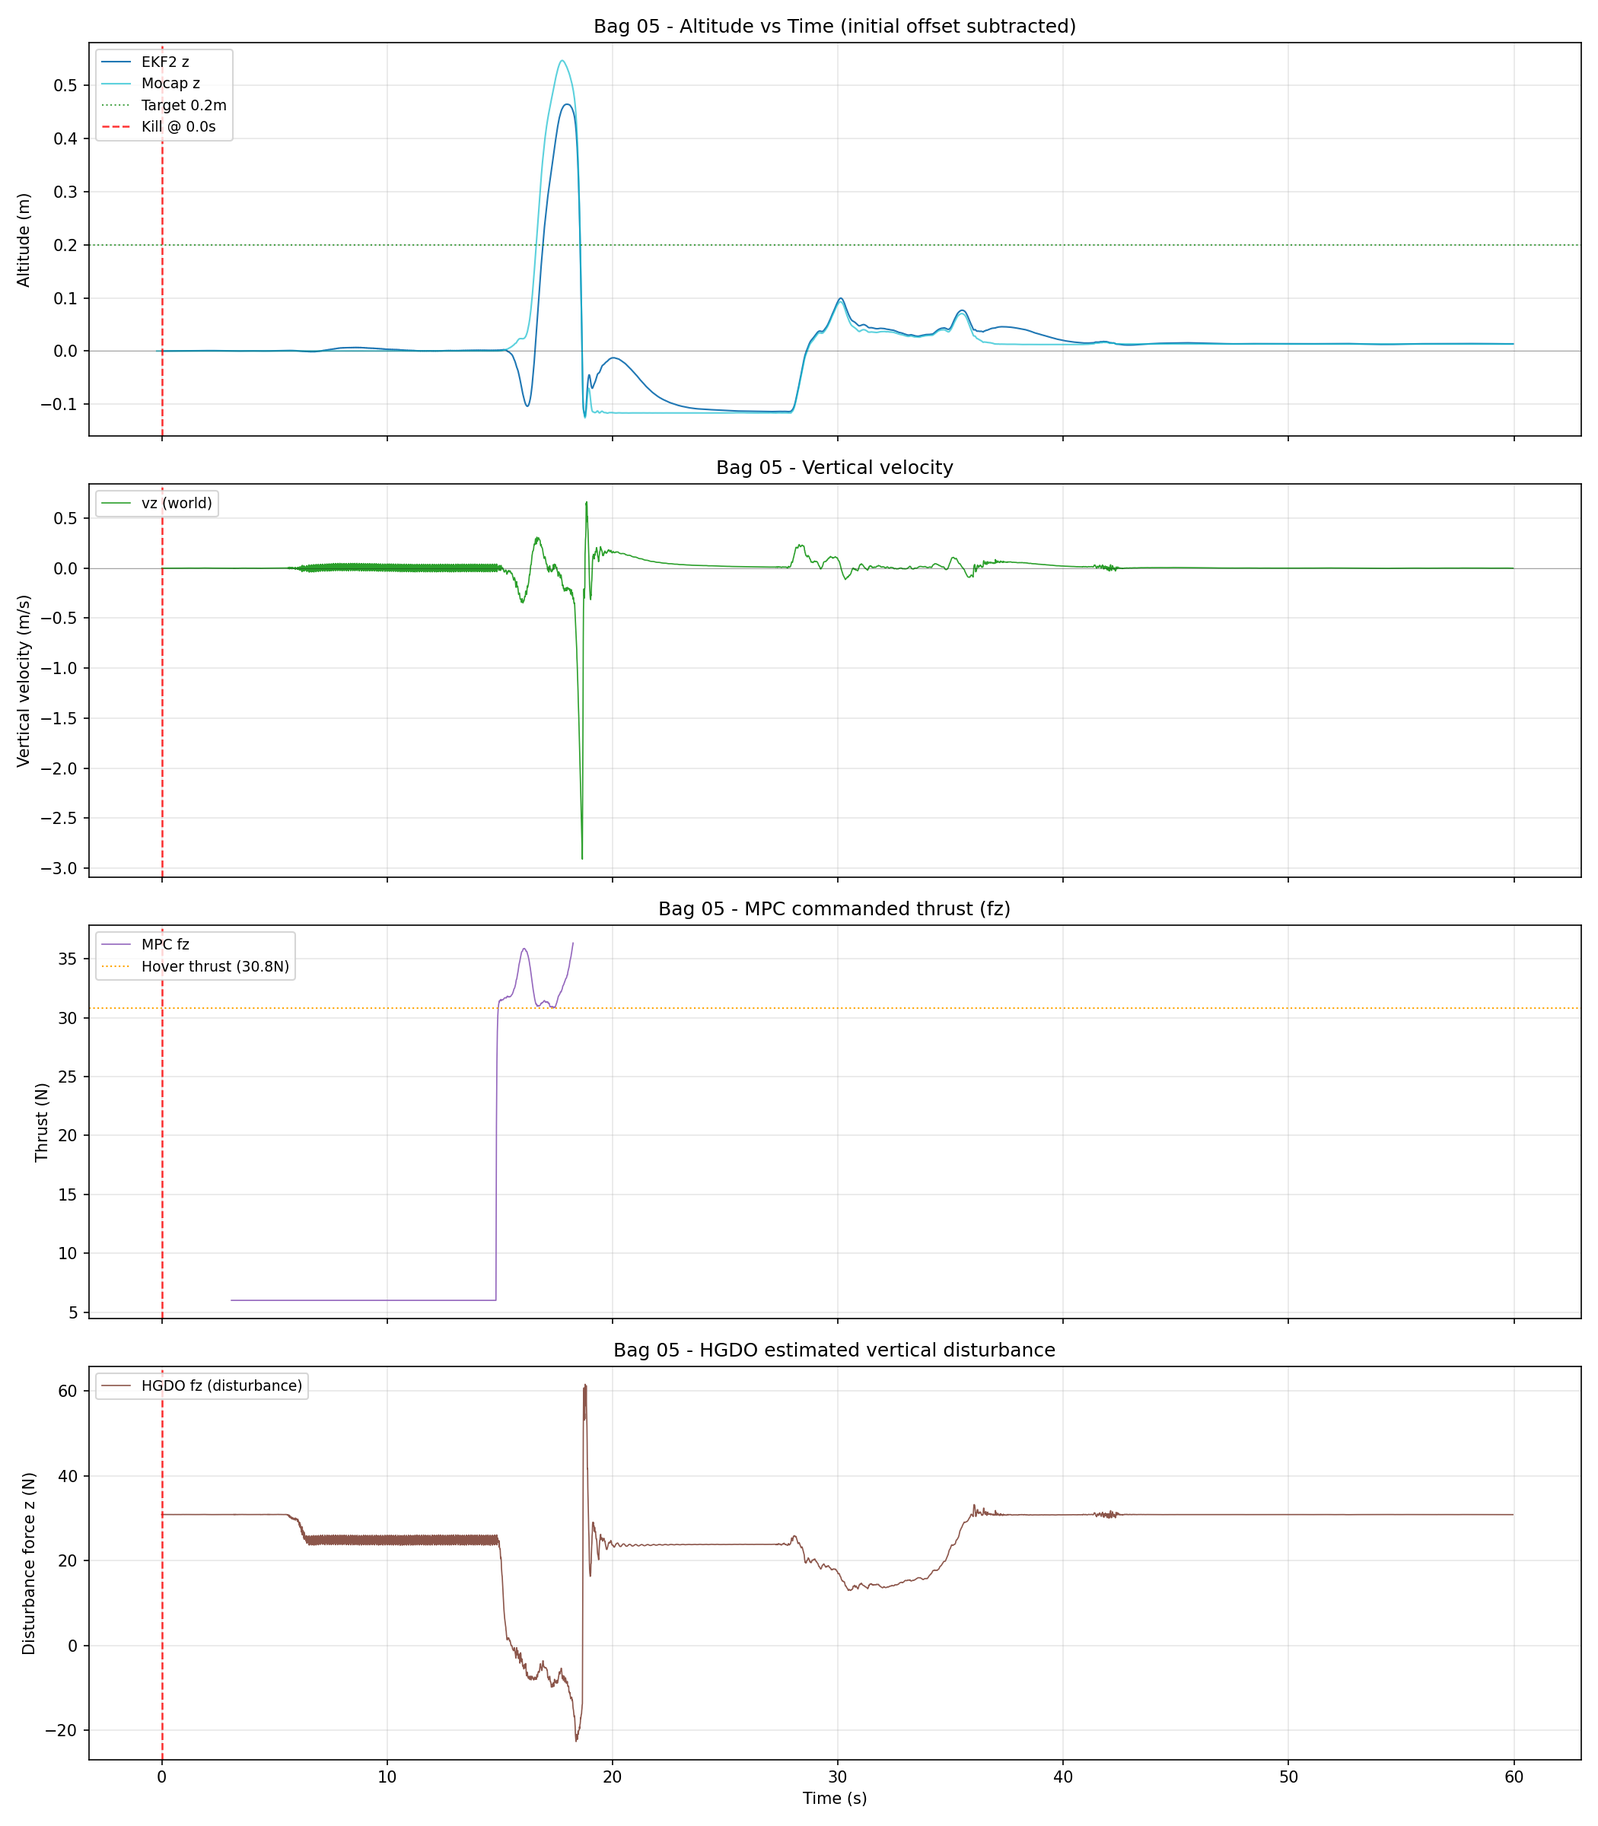
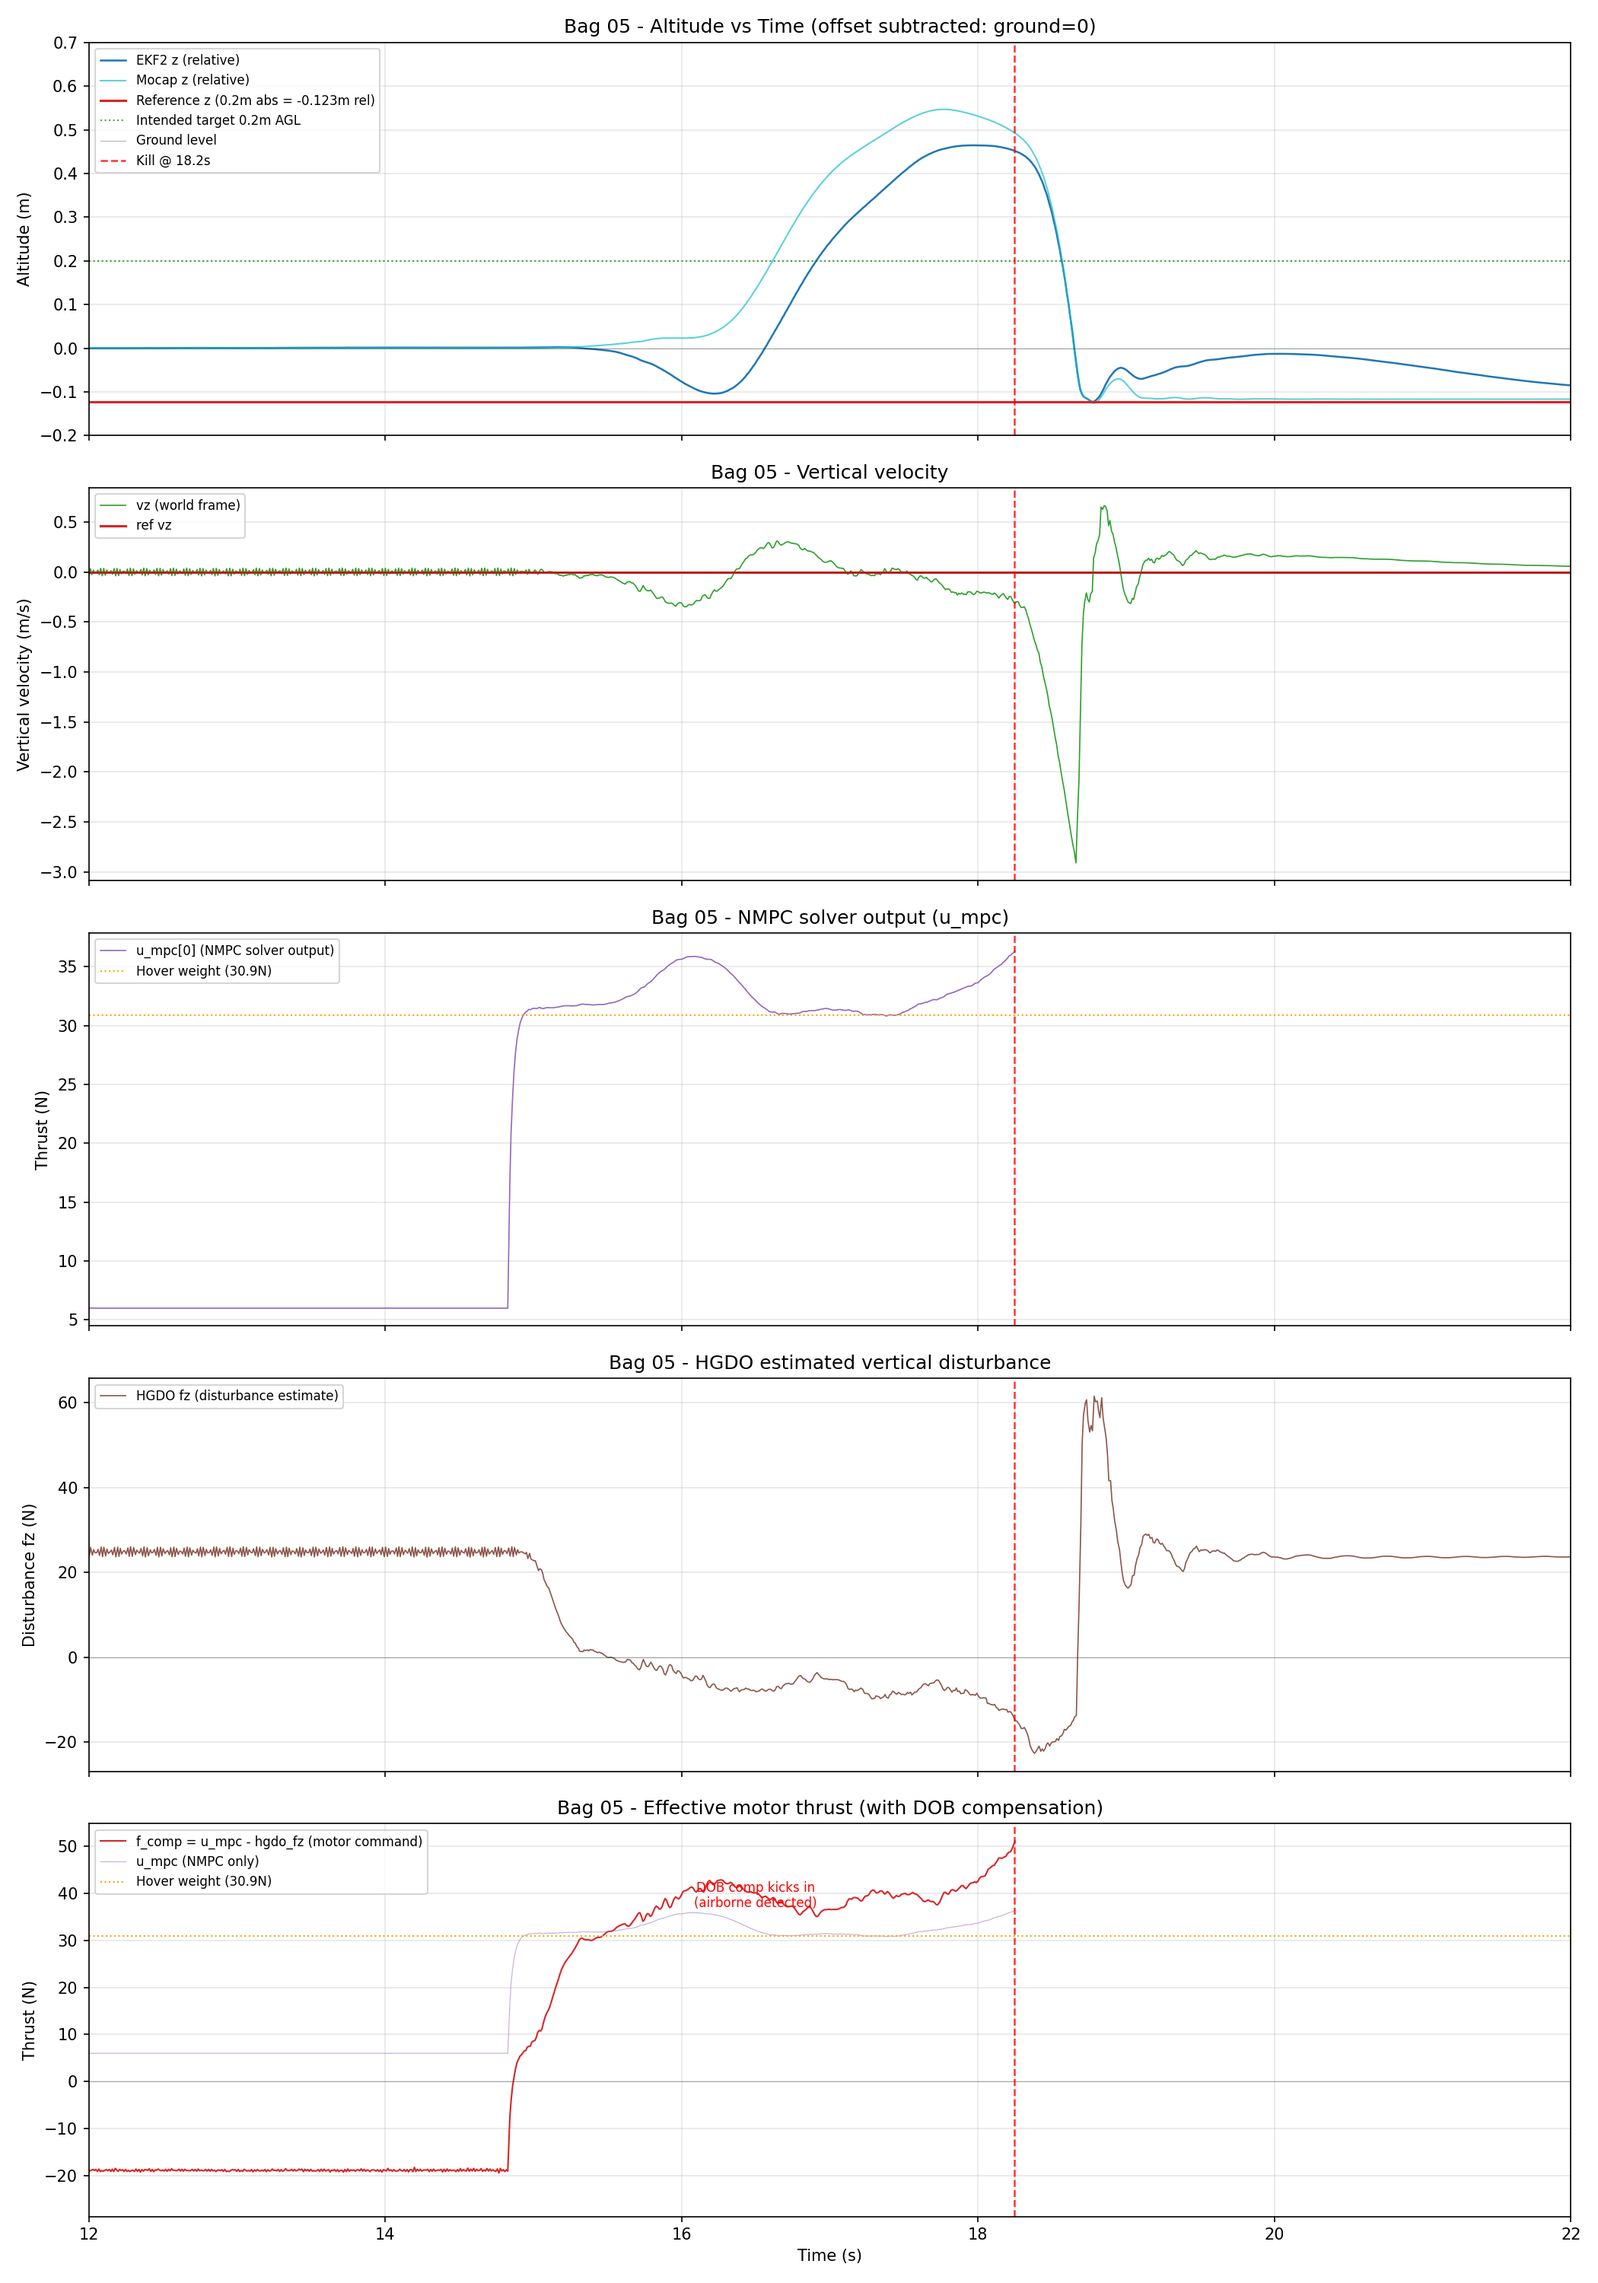
Update flight 05 analysis plots with refined data parsing
Improved reference frame offset detection, RC channel parsing,
kill switch detection, and thrust comparison across bags 03-05.

https://claude.ai/code/session_015hDTXF7MWidPDJrsc9iZ1y

diff --git a/bag_folder/analyze_flight05.py b/bag_folder/analyze_flight05.py
@@ -41,36 +41,42 @@ def parse_wrench_stamped(data):
 
 
 def parse_ref(data):
-    """Parse drone_msgs/msg/Ref CDR2:
-    Header (4+4+4+framestr), float64[3] p, float64[3] v, float64 psi, float64 psi_dot.
+    """Parse drone_msgs/msg/Ref CDR:
+    4-byte CDR encapsulation + Header (sec,nsec,frame_id) + float64[3] p + float64[3] v + float64 psi + float64 psi_dot.
+    Alignment is relative to data start (offset 4 past encapsulation header).
     """
     sec = struct.unpack_from('<I', data, 4)[0]
     nsec = struct.unpack_from('<I', data, 8)[0]
-    # Frame ID string length
     flen = struct.unpack_from('<I', data, 12)[0]
-    off = 16 + flen
-    # Align to 8 bytes for float64 array
-    off = (off + 7) & ~7
+    # After frame_id string: 16 + flen
+    # Align relative to data start (offset 4): (16+flen-4) aligned to 8, then +4
+    rel = 16 + flen - 4  # relative to data start
+    rel = (rel + 7) & ~7
+    off = rel + 4  # back to absolute
     p = struct.unpack_from('<3d', data, off)
     off += 24
     v = struct.unpack_from('<3d', data, off)
     off += 24
     psi = struct.unpack_from('<d', data, off)[0]
     off += 8
-    psi_dot = struct.unpack_from('<d', data, off)[0]
+    if off + 8 <= len(data):
+        psi_dot = struct.unpack_from('<d', data, off)[0]
+    else:
+        psi_dot = 0.0
     t = sec + nsec * 1e-9
     return t, p, v, psi, psi_dot
 
 
 def parse_rc_in(data):
+    """Parse mavros_msgs/RCIn: Header + uint16 rssi + uint16[] channels.
+    Channels start at offset 24 (after 4-byte CDR encap + header + rssi + array length).
+    """
     sec = struct.unpack_from('<I', data, 4)[0]
     nsec = struct.unpack_from('<I', data, 8)[0]
-    # channels start after header; detect kill on channel 8 (index 8, 0-based)
-    # RC channels: after header (sec,nsec,frame_id), then sequence of uint16
-    # Approximate: channel data starts at offset 24 (after header padding)
-    ch8 = struct.unpack_from('<H', data, 24 + 8 * 2)[0]
+    arr_len = struct.unpack_from('<I', data, 20)[0]
+    channels = list(struct.unpack_from(f'<{min(arr_len, 16)}H', data, 24))
     t = sec + nsec * 1e-9
-    return t, ch8
+    return t, channels
 
 
 def load_bag(db_path):
@@ -111,14 +117,19 @@ def load_bag(db_path):
     mocap_t = np.array(mocap_t)
     mocap_pz = np.array(mocap_pz)
 
-    # Reference
+    # Reference (use bag timestamp since header stamp may be zero)
     ref_t, ref_pz, ref_vz = [], [], []
     if '/nmpc/ref' in topics:
         tid = topics['/nmpc/ref']
-        c.execute('SELECT data FROM messages WHERE topic_id=? ORDER BY timestamp', (tid,))
-        for data, in c.fetchall():
+        c.execute('SELECT timestamp, data FROM messages WHERE topic_id=? ORDER BY timestamp', (tid,))
+        for bag_ts, data in c.fetchall():
             try:
-                t, p, v, psi, psi_dot = parse_ref(data)
+                t_hdr, p, v, psi, psi_dot = parse_ref(data)
+                # Use header time if valid, else bag timestamp (in nanoseconds)
+                if t_hdr > 1e9:
+                    t = t_hdr
+                else:
+                    t = bag_ts * 1e-9
                 ref_t.append(t)
                 ref_pz.append(p[2])
                 ref_vz.append(v[2])
@@ -152,16 +163,24 @@ def load_bag(db_path):
     hgdo_t = np.array(hgdo_t) if hgdo_t else np.array([])
     hgdo_fz = np.array(hgdo_fz) if hgdo_fz else np.array([])
 
-    # Kill time (RC channel 8 < 1200)
+    # Kill time: detect when ch8 (NMPC enable, index 8) drops from 2000 to 1000
     kill_t = None
+    nmpc_enable_t = None
     if '/mavros/rc/in' in topics:
         tid = topics['/mavros/rc/in']
         c.execute('SELECT data FROM messages WHERE topic_id=? ORDER BY timestamp', (tid,))
+        prev_ch8 = None
         for data, in c.fetchall():
-            t, ch8 = parse_rc_in(data)
-            if ch8 < 1200:
-                kill_t = t
-                break
+            t, channels = parse_rc_in(data)
+            if len(channels) > 8:
+                ch8 = channels[8]
+                if prev_ch8 is not None:
+                    if prev_ch8 < 1500 and ch8 > 1500 and nmpc_enable_t is None:
+                        nmpc_enable_t = t
+                    if prev_ch8 > 1500 and ch8 < 1500 and nmpc_enable_t is not None:
+                        kill_t = t
+                        break
+                prev_ch8 = ch8
 
     conn.close()
 
@@ -239,16 +258,21 @@ def print_stats(name, d, target=0.2):
         print(f"  Reference vz values: {d['ref_vz']}")
 
     if len(d['mpc_fz']) > 0:
-        print(f"  MPC thrust (fz) range: [{np.min(d['mpc_fz']):.2f}, {np.max(d['mpc_fz']):.2f}] N")
-        # Check if thrust stays high after reaching target
-        m = 3.144
+        m = 3.146
         W = m * 9.81
+        print(f"  MPC thrust u_mpc range: [{np.min(d['mpc_fz']):.2f}, {np.max(d['mpc_fz']):.2f}] N")
         above_hover = np.sum(d['mpc_fz'] > W) / len(d['mpc_fz']) * 100
         print(f"  MPC thrust > hover weight ({W:.1f}N): {above_hover:.1f}% of the time")
 
     if len(d['hgdo_fz']) > 0:
         print(f"  HGDO fz range: [{np.min(d['hgdo_fz']):.2f}, {np.max(d['hgdo_fz']):.2f}] N")
         print(f"  HGDO fz mean: {np.mean(d['hgdo_fz']):.2f} N")
+
+    if len(d['mpc_fz']) > 0 and len(d['hgdo_fz']) > 0:
+        hgdo_interp = np.interp(d['mpc_t'], d['hgdo_t'], d['hgdo_fz'])
+        f_eff = d['mpc_fz'] - hgdo_interp
+        print(f"  Effective thrust (u_mpc - hgdo) range: [{np.min(f_eff):.2f}, {np.max(f_eff):.2f}] N")
+        print(f"  Effective thrust max (= motor command peak): {np.max(f_eff):.2f} N")
 
 
 # ── Load all bags ──
@@ -268,28 +292,34 @@ for label, path in bag_configs:
         print(f"  ERROR loading bag {label}: {e}")
         import traceback; traceback.print_exc()
 
-# ── Main analysis plot for bag 05 ──
+# ── Main analysis plot for bag 05 (zoomed to t=12-22s around the event) ──
 d = bags['05']
-fig, axes = plt.subplots(4, 1, figsize=(14, 16), sharex=True)
+m = 3.146  # from config
+W = m * 9.81
+t_zoom = (12, 22)
+
+fig, axes = plt.subplots(5, 1, figsize=(14, 20), sharex=True)
 
 # 1) Altitude: EKF2 + Mocap + Reference
 ax = axes[0]
-ax.plot(d['odom_t'], d['pz'], 'tab:blue', lw=1.0, label='EKF2 z')
-ax.plot(d['mocap_t'], d['mocap_pz'], 'tab:cyan', lw=1.0, alpha=0.7, label='Mocap z')
+ax.plot(d['odom_t'], d['pz'], 'tab:blue', lw=1.2, label='EKF2 z (relative)')
+ax.plot(d['mocap_t'], d['mocap_pz'], 'tab:cyan', lw=1.0, alpha=0.7, label='Mocap z (relative)')
 if len(d['ref_t']) > 0:
-    ax.step(d['ref_t'], d['ref_pz'], 'tab:red', lw=1.5, where='post', label='Reference z')
-ax.axhline(0.2, color='green', ls=':', lw=1.0, alpha=0.7, label='Target 0.2m')
-ax.axhline(0.0, color='k', ls='-', lw=0.5, alpha=0.3)
+    ax.step(d['ref_t'], d['ref_pz'], 'tab:red', lw=1.5, where='post', label=f'Reference z (0.2m abs = {d["ref_pz"][0]:.3f}m rel)')
+ax.axhline(0.2, color='green', ls=':', lw=1.0, alpha=0.7, label='Intended target 0.2m AGL')
+ax.axhline(0.0, color='k', ls='-', lw=0.5, alpha=0.3, label='Ground level')
 if d['kill_t'] is not None:
     ax.axvline(d['kill_t'], color='red', ls='--', lw=1.2, alpha=0.8, label=f"Kill @ {d['kill_t']:.1f}s")
 ax.set_ylabel('Altitude (m)')
-ax.set_title('Bag 05 - Altitude vs Time (initial offset subtracted)')
-ax.legend(loc='upper left', fontsize=9)
+ax.set_title('Bag 05 - Altitude vs Time (offset subtracted: ground=0)')
+ax.legend(loc='upper left', fontsize=8)
 ax.grid(True, alpha=0.3)
+ax.set_xlim(t_zoom)
+ax.set_ylim(-0.2, 0.7)
 
 # 2) Vertical velocity
 ax = axes[1]
-ax.plot(d['odom_t'], d['vz'], 'tab:green', lw=0.8, label='vz (world)')
+ax.plot(d['odom_t'], d['vz'], 'tab:green', lw=0.8, label='vz (world frame)')
 if len(d['ref_vz']) > 0:
     ax.step(d['ref_t'], d['ref_vz'], 'tab:red', lw=1.5, where='post', label='ref vz')
 ax.axhline(0, color='k', ls='-', lw=0.5, alpha=0.3)
@@ -297,33 +327,53 @@ if d['kill_t'] is not None:
     ax.axvline(d['kill_t'], color='red', ls='--', lw=1.2, alpha=0.8)
 ax.set_ylabel('Vertical velocity (m/s)')
 ax.set_title('Bag 05 - Vertical velocity')
-ax.legend(loc='upper left', fontsize=9)
+ax.legend(loc='upper left', fontsize=8)
 ax.grid(True, alpha=0.3)
 
-# 3) MPC thrust (fz)
+# 3) MPC thrust (u_mpc) - this is the NMPC solver output, NOT the actual motor command
 ax = axes[2]
 if len(d['mpc_t']) > 0:
-    ax.plot(d['mpc_t'], d['mpc_fz'], 'tab:purple', lw=0.8, label='MPC fz')
-    m = 3.144
-    W = m * 9.81
-    ax.axhline(W, color='orange', ls=':', lw=1.0, label=f'Hover thrust ({W:.1f}N)')
+    ax.plot(d['mpc_t'], d['mpc_fz'], 'tab:purple', lw=0.8, label='u_mpc[0] (NMPC solver output)')
+    ax.axhline(W, color='orange', ls=':', lw=1.0, label=f'Hover weight ({W:.1f}N)')
 if d['kill_t'] is not None:
     ax.axvline(d['kill_t'], color='red', ls='--', lw=1.2, alpha=0.8)
 ax.set_ylabel('Thrust (N)')
-ax.set_title('Bag 05 - MPC commanded thrust (fz)')
-ax.legend(loc='upper left', fontsize=9)
+ax.set_title('Bag 05 - NMPC solver output (u_mpc)')
+ax.legend(loc='upper left', fontsize=8)
 ax.grid(True, alpha=0.3)
 
 # 4) HGDO disturbance fz
 ax = axes[3]
 if len(d['hgdo_t']) > 0:
-    ax.plot(d['hgdo_t'], d['hgdo_fz'], 'tab:brown', lw=0.8, label='HGDO fz (disturbance)')
+    ax.plot(d['hgdo_t'], d['hgdo_fz'], 'tab:brown', lw=0.8, label='HGDO fz (disturbance estimate)')
+    ax.axhline(0, color='k', ls='-', lw=0.5, alpha=0.3)
 if d['kill_t'] is not None:
     ax.axvline(d['kill_t'], color='red', ls='--', lw=1.2, alpha=0.8)
-ax.set_ylabel('Disturbance force z (N)')
-ax.set_xlabel('Time (s)')
+ax.set_ylabel('Disturbance fz (N)')
 ax.set_title('Bag 05 - HGDO estimated vertical disturbance')
-ax.legend(loc='upper left', fontsize=9)
+ax.legend(loc='upper left', fontsize=8)
+ax.grid(True, alpha=0.3)
+
+# 5) Effective thrust = u_mpc - hgdo_fz (what actually goes to motors in flight)
+ax = axes[4]
+if len(d['mpc_t']) > 0 and len(d['hgdo_t']) > 0:
+    # Interpolate HGDO to MPC timestamps
+    hgdo_interp = np.interp(d['mpc_t'], d['hgdo_t'], d['hgdo_fz'])
+    f_effective = d['mpc_fz'] - hgdo_interp
+    ax.plot(d['mpc_t'], f_effective, 'tab:red', lw=1.0, label='f_comp = u_mpc - hgdo_fz (motor command)')
+    ax.plot(d['mpc_t'], d['mpc_fz'], 'tab:purple', lw=0.6, alpha=0.5, label='u_mpc (NMPC only)')
+    ax.axhline(W, color='orange', ls=':', lw=1.0, label=f'Hover weight ({W:.1f}N)')
+    ax.axhline(0, color='k', ls='-', lw=0.5, alpha=0.3)
+    # Mark where airborne detection would fire
+    ax.annotate('DOB comp kicks in\n(airborne detected)',
+                xy=(16.5, 37), fontsize=8, color='red',
+                ha='center')
+if d['kill_t'] is not None:
+    ax.axvline(d['kill_t'], color='red', ls='--', lw=1.2, alpha=0.8)
+ax.set_ylabel('Thrust (N)')
+ax.set_xlabel('Time (s)')
+ax.set_title('Bag 05 - Effective motor thrust (with DOB compensation)')
+ax.legend(loc='upper left', fontsize=8)
 ax.grid(True, alpha=0.3)
 
 plt.tight_layout()
